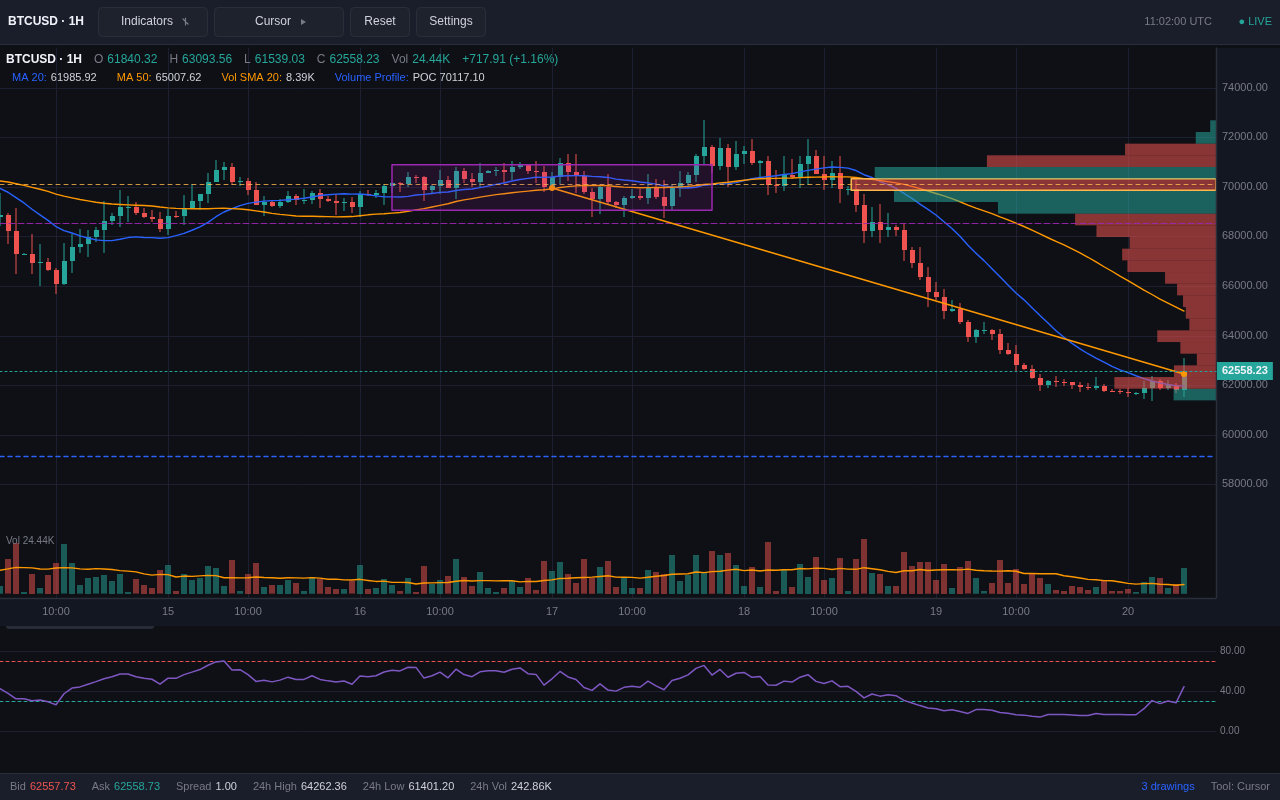
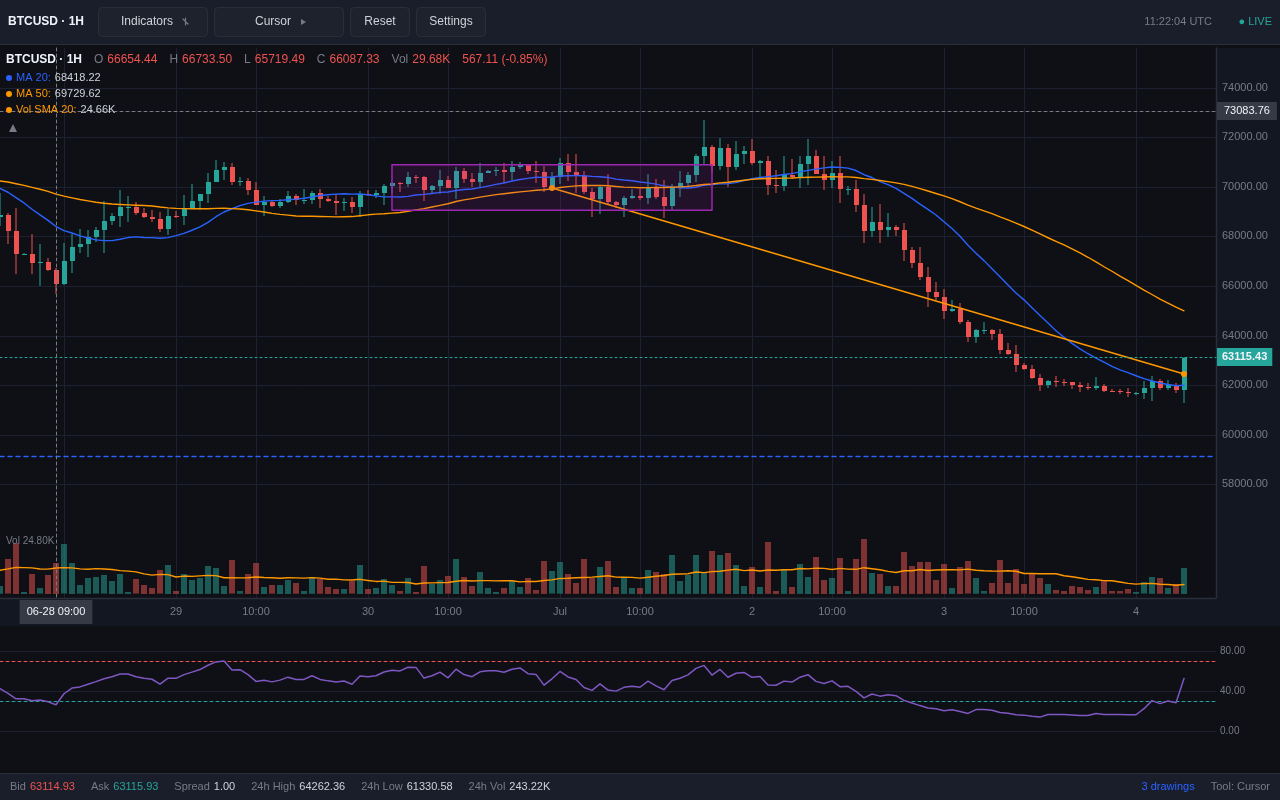
c618d489-d432-4fd4-953d-5040f9bce209

diff --git a/download/chart.js b/download/chart.js
@@ -780,6 +780,8 @@ class TradingChart {
     }
     // Active indicator card (which card's icons are currently shown expanded)
     this.activeIndicatorCard = null;
+    // Whether the indicator legend list is collapsed (hidden) — toggled by the arrow
+    this.indicatorsCollapsed = false;
     // Settings card popup state
     this.settingsCard = null; // {id, x, y, w, h, fields, onSave}
     // Icon hit-test registry (rebuilt each frame in drawLegend)
@@ -1248,6 +1250,11 @@ class TradingChart {
 
   // Handle a click on an indicator icon
   _handleIconClick(indId, iconId) {
+    // Handle the collapse/expand arrow
+    if (iconId === 'collapse') {
+      this.indicatorsCollapsed = !this.indicatorsCollapsed;
+      return;
+    }
     const state = this.indicatorStates.get(indId);
     if (!state) return;
     // Check custom icons first
@@ -2206,33 +2213,30 @@ class TradingChart {
     }
     ctx.restore();
 
-    // Indicator cards for the pane (TradingView-style, with icons)
-    // Reuse the same _drawIndicatorCard system as the main legend.
+    // Indicator labels for the pane — stacked vertically like the main legend.
+    // Drawn INSIDE the pane (not as separate cards), same style as TradingView.
     ctx.font = '11px -apple-system, Segoe UI, Roboto, sans-serif';
     ctx.textBaseline = 'top';
     const paneIdx = this.crosshairIndex !== null ?
       clamp(Math.round(this.crosshairIndex), 0, this.sim.candles.length - 1) :
       this.sim.candles.length - 1;
-    let pcx = left + 6;
     const pcy = top + 4;
-    // RSI card
+    // RSI line (inside the pane)
     if (this.activeIndicators.has('rsi')) {
       const state = this.indicatorStates.get('rsi') || {visible: true, settings: {}, icons: ['hide','edit','settings','delete'], customIcons: []};
       const meta = INDICATOR_LIST.find(i => i.id === 'rsi');
       if (meta) {
         const val = this._getIndicatorValueAt('rsi', paneIdx);
-        const cardW = this._drawIndicatorCard(pcx, pcy, 'rsi', meta, state, val);
-        pcx += cardW + 8;
+        this._drawIndicatorLine(left + 6, pcy, 'rsi', meta, state, val);
       }
     }
-    // MACD card
+    // MACD line (inside the pane)
     if (this.activeIndicators.has('macd')) {
       const state = this.indicatorStates.get('macd') || {visible: true, settings: {}, icons: ['hide','edit','settings','delete'], customIcons: []};
       const meta = INDICATOR_LIST.find(i => i.id === 'macd');
       if (meta) {
         const val = this._getIndicatorValueAt('macd', paneIdx);
-        const cardW = this._drawIndicatorCard(pcx, pcy, 'macd', meta, state, val);
-        pcx += cardW + 8;
+        this._drawIndicatorLine(left + 6, pcy, 'macd', meta, state, val);
       }
     }
     // Right axis labels (price scale of the pane)
@@ -2761,6 +2765,8 @@ class TradingChart {
       this.sim.candles.length - 1;
     const c = this.sim.candles[idx];
     if (!c) return;
+
+    // Line 1: Symbol · Timeframe · OHLC · Change (always shown)
     ctx.font = (isMobile ? '11px' : '12px') + ' -apple-system, Segoe UI, Roboto, sans-serif';
     ctx.textBaseline = 'top'; ctx.textAlign = 'left';
     let x = this.chartLeft + 6;
@@ -2772,7 +2778,6 @@ class TradingChart {
     x += ctx.measureText(symTxt).width + (isMobile ? 8 : 12);
     ctx.font = (isMobile ? '11px' : '12px') + ' -apple-system, Segoe UI, Roboto, sans-serif';
     const isBull = c.close >= c.open;
-    // On mobile: show only Close + Change. On desktop: full OHLC.
     const parts = isMobile ? [
       {label:'C', value: this.priceScale.formatLogical(c.close)}
     ] : [
@@ -2798,25 +2803,111 @@ class TradingChart {
     ctx.fillStyle = isBull ? THEME.bull : THEME.bear;
     ctx.fillText(changeTxt, x, y);
 
-    // Indicator cards (second line) — TradingView-style with icons
+    // Lines 2+: Indicator labels stacked VERTICALLY (TradingView-style)
+    // Each indicator on its own line, with icons shown when active (clicked).
     if (isMobile) return;
-    // NOTE: _iconHits is reset once per frame in render(), not here,
-    // so pane cards (drawn in drawPane) are preserved.
-    let cx = this.chartLeft + 6;
-    const cy = y + 18;
-    // Only show overlay/volume indicators in the main legend.
-    // Pane indicators (rsi, macd) are shown in their own pane via drawPane().
-    const activeIds = Array.from(this.activeIndicators).filter(id => id !== 'rsi' && id !== 'macd');
-    for (const id of activeIds) {
+    // Get overlay/volume indicators (pane indicators rsi/macd are drawn in drawPane)
+    const overlayIds = Array.from(this.activeIndicators).filter(id => id !== 'rsi' && id !== 'macd');
+    if (overlayIds.length === 0) return;
+    // If collapsed, draw only the expand arrow (downward) and return
+    let lineY = y + 18;
+    const lineH = 16;
+    if (this.indicatorsCollapsed) {
+      // Draw a small downward arrow to expand
+      this._drawCollapseArrow(this.chartLeft + 8, lineY, false);
+      return;
+    }
+    // Draw each indicator on its own line
+    for (const id of overlayIds) {
       const state = this.indicatorStates.get(id) || {visible: true, settings: {}, icons: ['hide','edit','settings','delete'], customIcons: []};
       const meta = INDICATOR_LIST.find(i => i.id === id);
       if (!meta) continue;
-      // Get current value for this indicator at idx
       const val = this._getIndicatorValueAt(id, idx);
-      const cardW = this._drawIndicatorCard(cx, cy, id, meta, state, val);
-      cx += cardW + 8;
-      if (cx > this.chartRight - 100) break; // stop if no room
+      this._drawIndicatorLine(this.chartLeft + 6, lineY, id, meta, state, val);
+      lineY += lineH;
     }
+    // Draw the collapse arrow (upward) below the last indicator
+    this._drawCollapseArrow(this.chartLeft + 8, lineY + 2, true);
+  }
+
+  // Draw a single indicator line (label + value + icons when active)
+  // Stacked vertically like TradingView.
+  _drawIndicatorLine(x, y, id, meta, state, val) {
+    const ctx = this.ctx;
+    const isActive = this.activeIndicatorCard === id;
+    const isVisible = state.visible !== false;
+    const color = meta.color;
+    ctx.font = '11px -apple-system, Segoe UI, Roboto, sans-serif';
+    ctx.textBaseline = 'top'; ctx.textAlign = 'left';
+    const labelTxt = meta.label + ':';
+    const labelW = ctx.measureText(labelTxt).width;
+    const valTxt = val || '';
+    const valW = ctx.measureText(valTxt).width;
+    // Background when active (subtle highlight)
+    const allIcons = state.icons.concat(state.customIcons.map(c => c.id));
+    const iconSize = 13;
+    const iconGap = 2;
+    const padX = 4;
+    let iconsW = 0;
+    if (isActive) iconsW = allIcons.length * (iconSize + iconGap);
+    const lineW = labelW + 4 + valW + (isActive ? iconsW + 6 : 0);
+    // Highlight background when active
+    if (isActive) {
+      ctx.fillStyle = 'rgba(42,46,57,0.6)';
+      this._roundRect(x - 2, y - 1, lineW + 4, 16, 2);
+      ctx.fill();
+    }
+    // Label (colored dot + name)
+    ctx.fillStyle = isVisible ? color : THEME.textDim;
+    // Small colored dot before the label
+    ctx.beginPath();
+    ctx.arc(x + 3, y + 6, 3, 0, Math.PI * 2);
+    ctx.fill();
+    ctx.fillText(labelTxt, x + 10, y);
+    // Value
+    ctx.fillStyle = isVisible ? THEME.text : THEME.textDim;
+    ctx.fillText(valTxt, x + 10 + labelW + 4, y);
+    // Icons (only when active)
+    if (isActive) {
+      let ix = x + 10 + labelW + 4 + valW + 6;
+      for (const iconId of allIcons) {
+        const isCustom = state.customIcons.find(c => c.id === iconId);
+        this._drawIndicatorIcon(ix, y, iconId, iconSize, id, isCustom);
+        ix += iconSize + iconGap;
+      }
+    } else {
+      // Register the line area for hit-test (click to activate)
+      this._iconHits.push({type: 'card', id: id, x: x - 2, y: y - 1, w: lineW + 4, h: 16});
+    }
+  }
+
+  // Draw the collapse/expand arrow for the indicator list
+  _drawCollapseArrow(x, y, isUp) {
+    const ctx = this.ctx;
+    const isHover = this.hoverIcon && this.hoverIcon.iconId === 'collapse';
+    const color = isHover ? THEME.textBright : THEME.textDim;
+    ctx.strokeStyle = color;
+    ctx.fillStyle = color;
+    ctx.lineWidth = 1.2;
+    ctx.lineCap = 'round'; ctx.lineJoin = 'round';
+    // Draw a small triangle (up or down)
+    const cx = x + 5, cy = y + 6, sz = 4;
+    ctx.beginPath();
+    if (isUp) {
+      // Up arrow (collapse) — triangle pointing up
+      ctx.moveTo(cx, cy - sz);
+      ctx.lineTo(cx - sz, cy + sz);
+      ctx.lineTo(cx + sz, cy + sz);
+    } else {
+      // Down arrow (expand) — triangle pointing down
+      ctx.moveTo(cx, cy + sz);
+      ctx.lineTo(cx - sz, cy - sz);
+      ctx.lineTo(cx + sz, cy - sz);
+    }
+    ctx.closePath();
+    ctx.fill();
+    // Register for hit-test
+    this._iconHits.push({type: 'icon', indId: '__legend__', iconId: 'collapse', x: x - 3, y: y - 3, w: 16, h: 16});
   }
 
   // Get formatted value for an indicator at a given candle index
